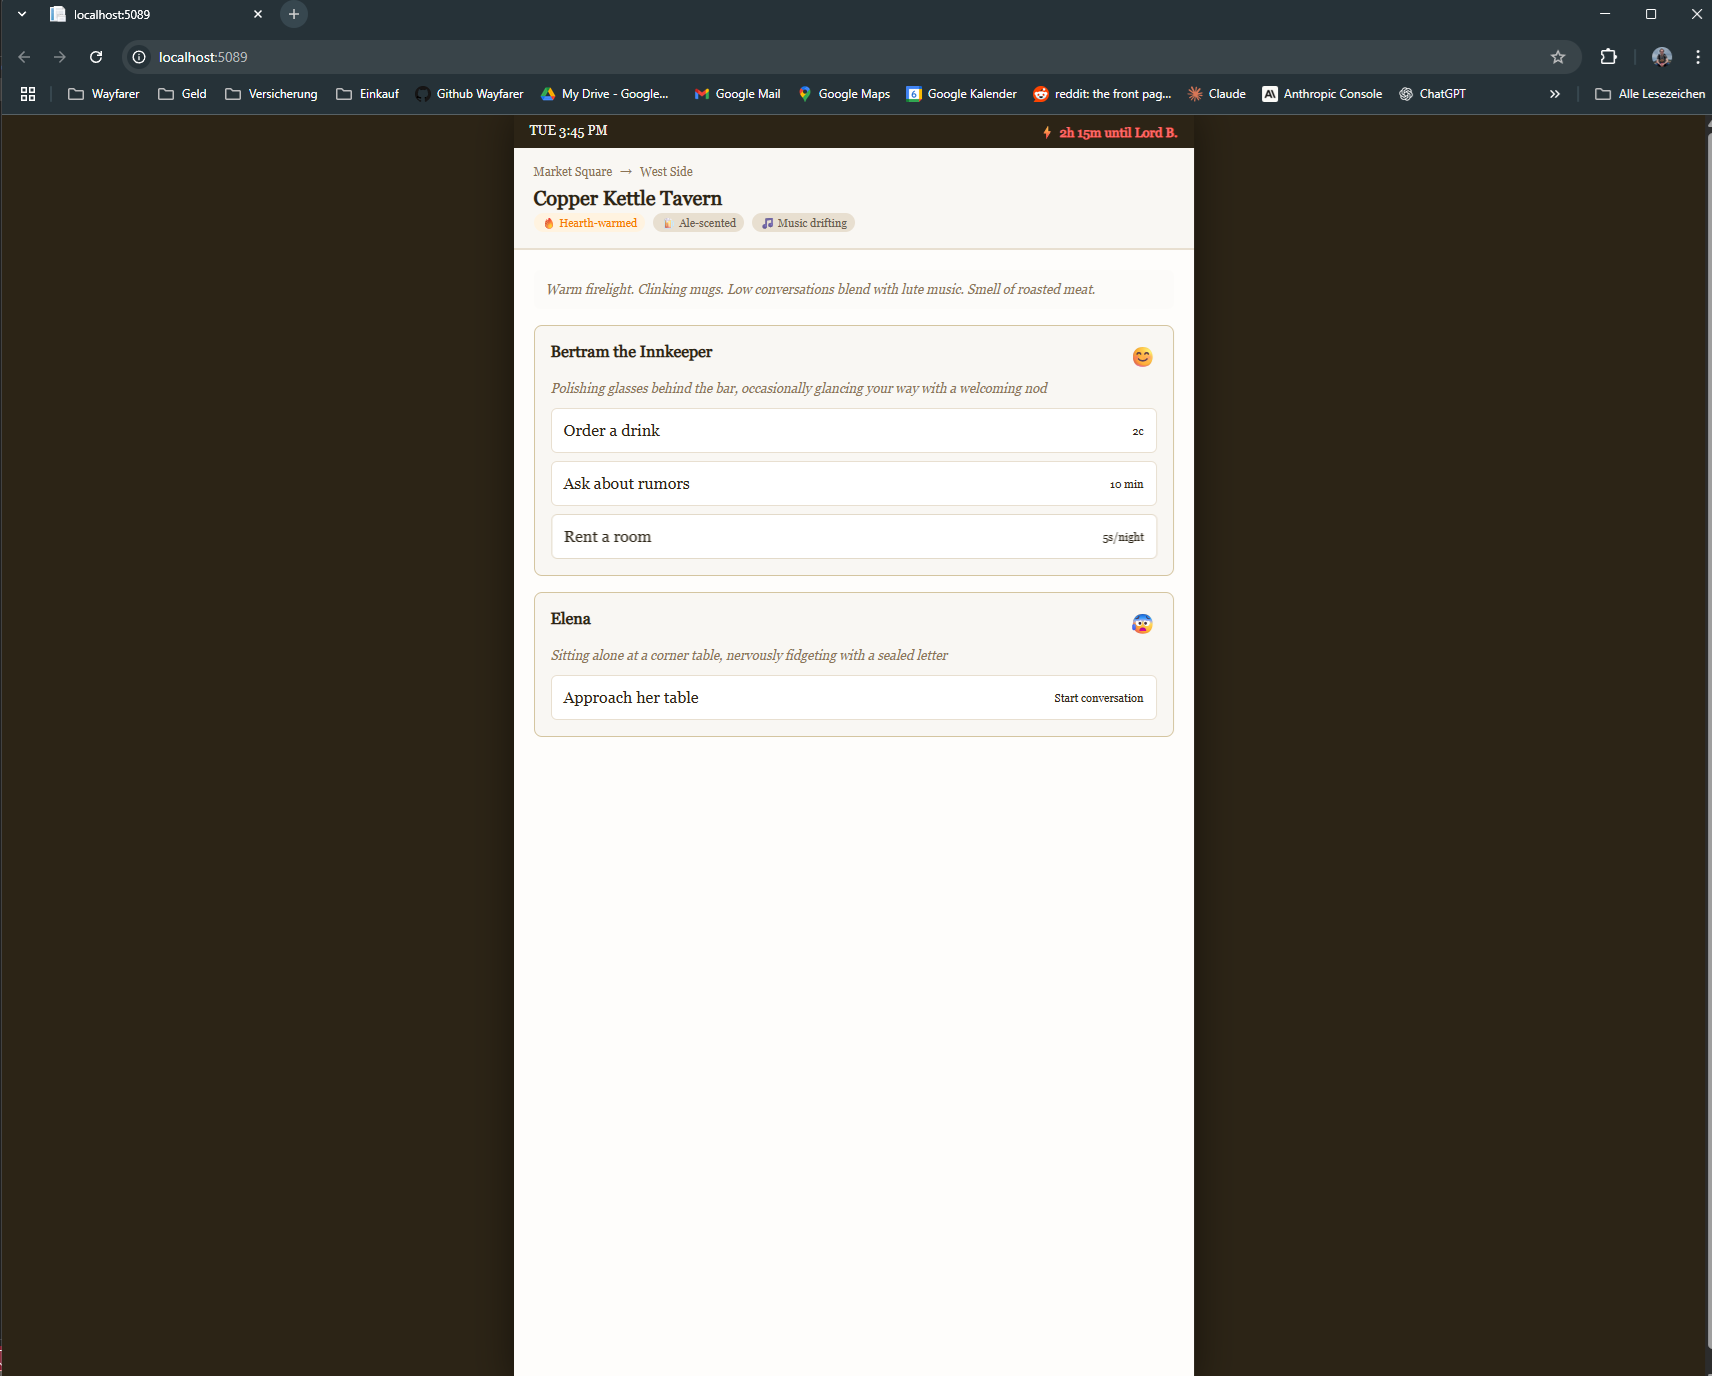
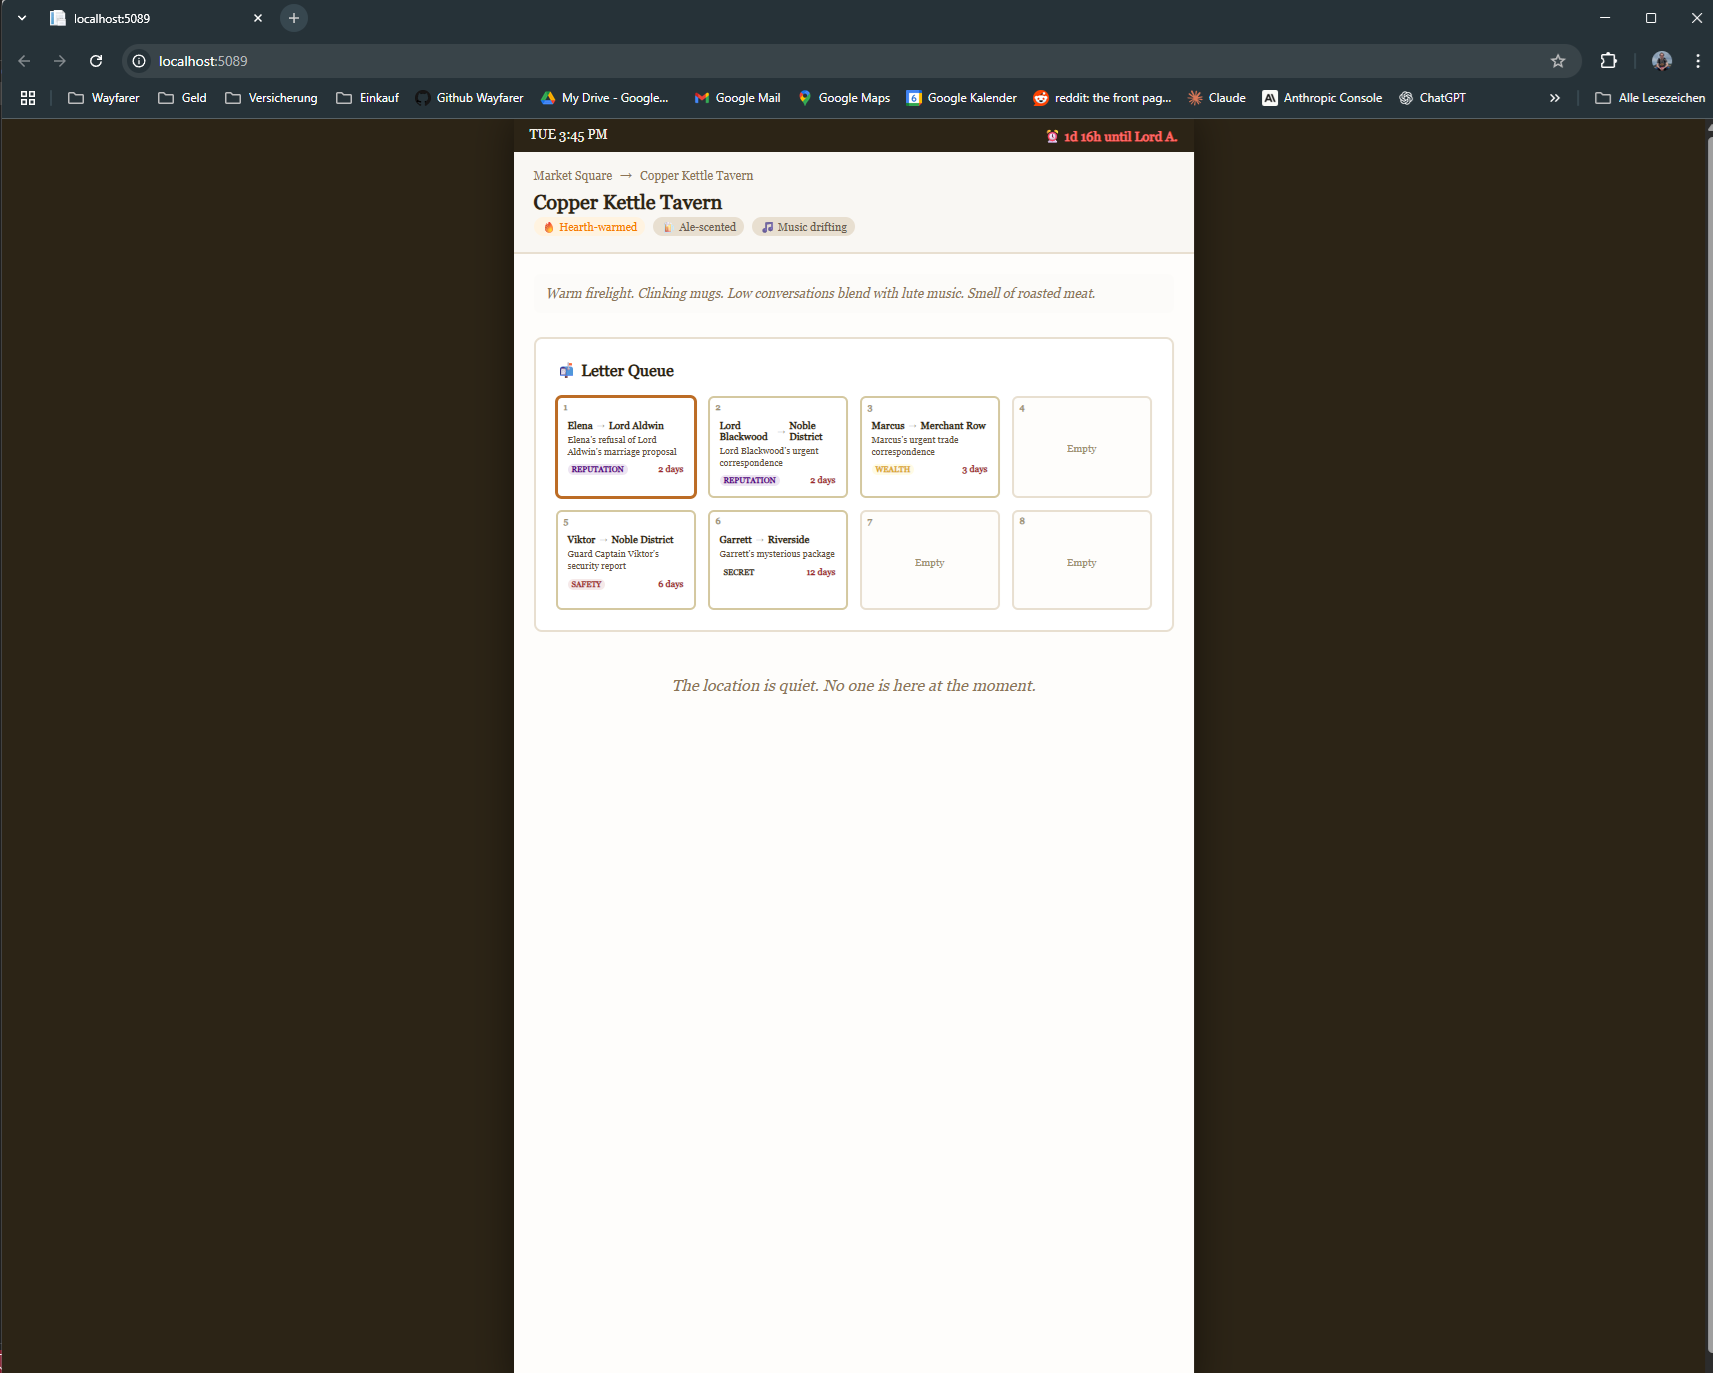
update

diff --git a/src/wwwroot/css/mockup.css b/src/wwwroot/css/mockup.css
@@ -201,6 +201,10 @@
             transform: translateX(4px);
         }
 
+        .interaction-cost {
+            font-size: 11px;
+        }
+
         /* Observations */
         .observations {
             background: #fefdfb;
@@ -315,3 +319,138 @@
             font-weight: bold;
             color: #8b7355;
         }
+
+/* Letter Queue Section */
+.letter-queue-section {
+    margin: 24px 0;
+    padding: 20px;
+    background: white;
+    border: 2px solid #e8dfd0;
+    border-radius: 8px;
+}
+
+.section-header {
+    font-size: 16px;
+    margin-bottom: 16px;
+    color: #2c2416;
+    font-weight: 600;
+}
+
+.letter-grid {
+    display: grid;
+    grid-template-columns: repeat(4, 1fr);
+    gap: 12px;
+}
+
+@media (max-width: 600px) {
+    .letter-grid {
+        grid-template-columns: repeat(2, 1fr);
+    }
+}
+
+.letter-slot {
+    background: #fefdfb;
+    border: 2px solid #e8dfd0;
+    border-radius: 6px;
+    padding: 10px;
+    min-height: 100px;
+    position: relative;
+    font-size: 11px;
+}
+
+.letter-slot.occupied {
+    background: white;
+    border-color: #d4c8a0;
+}
+
+.letter-slot.deliverable {
+    border-color: #BC6C25;
+    box-shadow: 0 0 0 1px #BC6C25;
+}
+
+.slot-number {
+    position: absolute;
+    top: 4px;
+    left: 6px;
+    font-size: 9px;
+    font-weight: bold;
+    color: #a09070;
+}
+
+.letter-content {
+    margin-top: 12px;
+}
+
+.letter-route {
+    display: flex;
+    align-items: center;
+    gap: 4px;
+    font-size: 10px;
+    margin-bottom: 4px;
+}
+
+.sender, .recipient {
+    font-weight: 600;
+    color: #2c2416;
+}
+
+.arrow {
+    color: #a09070;
+    font-size: 8px;
+}
+
+.letter-desc {
+    font-size: 9px;
+    color: #65513c;
+    line-height: 1.3;
+    margin-bottom: 6px;
+}
+
+.letter-meta {
+    display: flex;
+    justify-content: space-between;
+    font-size: 9px;
+    margin-top: 6px;
+}
+
+.stakes {
+    padding: 1px 4px;
+    border-radius: 8px;
+    font-weight: 600;
+    font-size: 8px;
+}
+
+.stakes.reputation {
+    background: rgba(75, 0, 130, 0.1);
+    color: #4b0082;
+}
+
+.stakes.wealth {
+    background: rgba(255, 215, 0, 0.1);
+    color: #DAA520;
+}
+
+.stakes.safety {
+    background: rgba(158, 42, 43, 0.1);
+    color: #9E2A2B;
+}
+
+.deadline {
+    color: #9E2A2B;
+    font-weight: 600;
+    font-size: 9px;
+}
+
+.empty-slot {
+    color: #a09070;
+    text-align: center;
+    margin-top: 35px;
+    font-size: 10px;
+}
+
+.no-npcs {
+    padding: 20px;
+    text-align: center;
+    color: #8b7355;
+    font-style: italic;
+}

diff --git a/src/Pages/LetterQueueScreen.razor.cs b/src/Pages/LetterQueueScreen.razor.cs
@@ -1,11 +1,14 @@
 using Microsoft.AspNetCore.Components;
 using System;
 using System.Linq;
+using System.Collections.Generic;
 
 namespace Wayfarer.Pages
 {
     public partial class LetterQueueScreen : MainGameplayViewBase
     {
+        [Inject] private NPCRepository NPCRepository { get; set; }
+        [Inject] private ITimeManager TimeManager { get; set; }
         private string GetCurrentTime()
         {
             var timeInfo = GameFacade.GetTimeInfo();
@@ -91,6 +94,80 @@ namespace Wayfarer.Pages
         {
             // Not used in current implementation
             return 0;
+        }
+
+        private string GetLocationPath()
+        {
+            var location = GameFacade.GetCurrentLocation();
+            return location.location?.Name ?? "Unknown";
+        }
+
+        private string GetSpotPath()
+        {
+            var location = GameFacade.GetCurrentLocation();
+            return location.spot?.Name ?? "Unknown";
+        }
+
+        private string GetCurrentSpotName()
+        {
+            var location = GameFacade.GetCurrentLocation();
+            return location.spot?.Name ?? "Unknown Location";
+        }
+
+        private string GetAtmosphereText()
+        {
+            var location = GameFacade.GetCurrentLocation();
+            if (location.spot?.SpotID == "copper_kettle")
+            {
+                return "Warm firelight. Clinking mugs. Low conversations blend with lute music. Smell of roasted meat.";
+            }
+            return location.spot?.Description ?? "A quiet place.";
+        }
+
+        private string GetStakesDisplay(StakeType stakes)
+        {
+            return stakes.ToString();
+        }
+
+        private string GetNPCMood(NPC npc)
+        {
+            // Return emoji based on NPC state
+            if (npc.ID == "elena") return "😰";
+            if (npc.ID == "bertram") return "😊";
+            return "😐";
+        }
+
+        private string GetNPCDescription(NPC npc)
+        {
+            if (npc.ID == "elena")
+                return "Sitting alone at a corner table, nervously fidgeting with a sealed letter";
+            if (npc.ID == "bertram")
+                return "Polishing glasses behind the bar, occasionally glancing your way with a welcoming nod";
+            return npc.Description ?? "Standing nearby";
+        }
+
+        private string GetInteractionText(NPC npc)
+        {
+            if (npc.ID == "elena") return "Approach her table";
+            if (npc.ID == "bertram") return "Ask about rumors";
+            return "Talk to " + npc.Name;
+        }
+
+        private string GetInteractionCost(NPC npc)
+        {
+            if (npc.ID == "elena") return "Start conversation";
+            if (npc.ID == "bertram") return "10 min";
+            return "Free";
+        }
+
+        private List<NPC> GetNPCsAtCurrentSpot()
+        {
+            var location = GameFacade.GetCurrentLocation();
+            if (location.spot == null) return new List<NPC>();
+            
+            // Get NPCs at the current spot and time
+            TimeBlocks currentTime = TimeManager.GetCurrentTimeBlock();
+            return NPCRepository.GetNPCsForLocationSpotAndTime(location.spot.SpotID, currentTime);
         }
     }
 }
